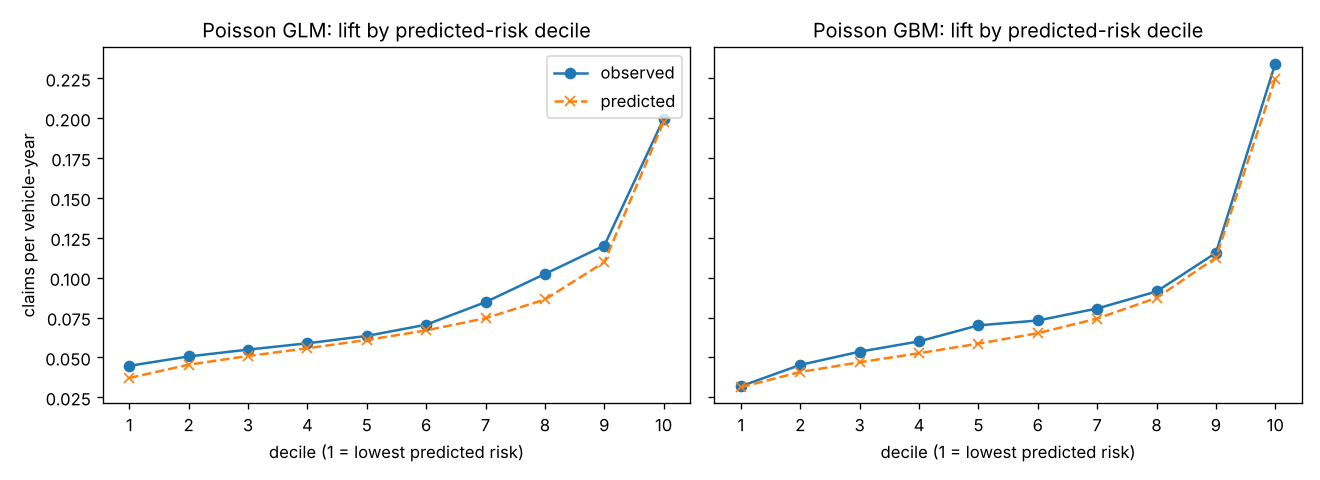
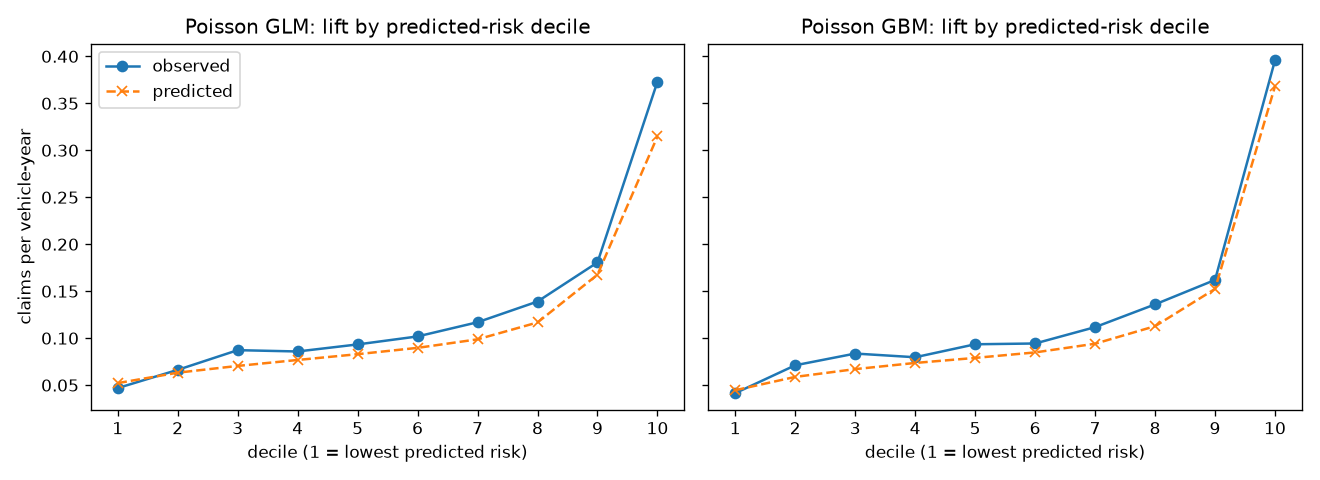
Fix data source to OpenML, update results, tidy pandas warning

Changed region(s): [[0.0, 0.0312, 0.9939, 0.9688]]

diff --git a/src/motorfreq/data.py b/src/motorfreq/data.py
@@ -18,24 +18,26 @@ def _read_file(path: Path) -> pd.DataFrame:
     return list(pyreadr.read_r(str(path)).values())[0]
 
 
-def load_raw(local_path: str | None = None) -> pd.DataFrame:
-    """Load freMTPL2freq.
+def load_raw(local_path: str | None = None, source: str = "openml") -> pd.DataFrame:
+    """Load freMTPL2freq from one explicit source, so every run uses the same data.
 
-    Order: a local file if given; otherwise OpenML; otherwise the CASdatasets copy on GitHub.
+    - "openml": the version used in the scikit-learn tutorial (678,013 policies).
+    - "casdatasets": the CASdatasets R package release (677,991 policies, different claim counts).
+    The two give different frequencies, so the source is fixed in the config, never mixed.
     """
     if local_path:
         return _read_file(Path(local_path)).reset_index(drop=True)
-    try:
+    if source == "openml":
         from sklearn.datasets import fetch_openml
 
-        df = fetch_openml(data_id=41214, as_frame=True, n_retries=1).frame
-    except Exception:
+        return fetch_openml(data_id=41214, as_frame=True).frame.reset_index(drop=True)
+    if source == "casdatasets":
         CACHE_DIR.mkdir(exist_ok=True)
         path = CACHE_DIR / "freMTPL2freq.rda"
         if not path.exists():
             urllib.request.urlretrieve(RDA_URL, path)
-        df = _read_file(path)
-    return df.reset_index(drop=True)
+        return _read_file(path).reset_index(drop=True)
+    raise ValueError(f"unknown data source: {source!r} (use 'openml' or 'casdatasets')")
 
 
 def prepare(df: pd.DataFrame, max_claims: int = 4, max_exposure: float = 1.0) -> pd.DataFrame:

diff --git a/src/motorfreq/feature_selection.py b/src/motorfreq/feature_selection.py
@@ -41,7 +41,7 @@ def stability(df: pd.DataFrame, feature: str, min_exposure: float = 1000) -> flo
     """Largest change in a value's relativity between the first and last period (as a ratio, >= 1)."""
     periods = sorted(df["Period"].unique())
     first, last = (one_way(df[df["Period"] == p], feature) for p in (periods[0], periods[-1]))
-    joined = first.join(last, lsuffix="_first", rsuffix="_last")
+    joined = first.merge(last, left_index=True, right_index=True, suffixes=("_first", "_last"))
     joined = joined[(joined["exposure_first"] >= min_exposure) & (joined["exposure_last"] >= min_exposure)]
     ratio = joined["relativity_last"] / joined["relativity_first"]
     return float(np.exp(np.abs(np.log(ratio)).max()))

diff --git a/src/motorfreq/pipeline.py b/src/motorfreq/pipeline.py
@@ -29,7 +29,7 @@ def _spec(cfg: dict, extra_categorical: list[str] | None = None) -> models.Featu
 
 def build_dataset(cfg: dict, raw: pd.DataFrame | None = None) -> pd.DataFrame:
     d, s = cfg["data"], cfg["simulation"]
-    df = data.prepare(raw if raw is not None else data.load_raw(d.get("local_path")),
+    df = data.prepare(raw if raw is not None else data.load_raw(d.get("local_path"), d.get("source", "openml")),
                       d["max_claims"], d["max_exposure"])
     validate.validate(df, _spec(cfg).columns + [cfg["features"]["area_grouping"]["column"]])
     df = features.add_periods(df, s["n_periods"], s["seed"])

diff --git a/reports/report.md b/reports/report.md
@@ -2,15 +2,15 @@
 
 _Public French motor data (freMTPL2). Periods and drift are simulated: illustrative only._
 
-- Policies: 677,991
-- Overall frequency: 0.0754 claims per vehicle-year
+- Policies: 678,013
+- Overall frequency: 0.1042 claims per vehicle-year
 
 ## Champion vs challenger (tested on a later period)
 
 | Model | Poisson deviance | O/E | Lift (top/bottom decile) |
 | --- | --- | --- | --- |
-| GLM | 0.4931 | 1.086 | 4.47x |
-| GBM | 0.4825 | 1.080 | 7.34x |
+| GLM | 0.6424 | 1.133 | 7.96x |
+| GBM | 0.6281 | 1.122 | 9.55x |
 
 ![Lift chart](lift_chart.png)
 
@@ -18,45 +18,45 @@ _Public French motor data (freMTPL2). Periods and drift are simulated: illustrat
 
 Segment VehBrand=B12 has a simulated risk increase in the latest period.
 
-- Time-based split: segment O/E = **1.54** (the shift is visible)
-- Random split: segment O/E = **0.95** (the shift is hidden)
+- Time-based split: segment O/E = **1.56** (the shift is visible)
+- Random split: segment O/E = **1.05** (the shift is hidden)
 
 ## Location grouping
 
 | Location feature | Poisson deviance | Lift |
 | --- | --- | --- |
-| grouped regions (5 bands) | 0.49308 | 4.47x |
-| raw Region (22 levels) | 0.49287 | 4.23x |
-| without region (Area and Density only) | 0.49313 | 4.47x |
+| grouped regions (5 bands) | 0.64237 | 7.96x |
+| raw Region (22 levels) | 0.64205 | 7.91x |
+| without region (Area and Density only) | 0.64234 | 7.79x |
 
 ## Feature selection
 
 | feature    |   deviance_increase_when_dropped |   one_way_spread |   stability_ratio | recommendation             |
 |:-----------|---------------------------------:|-----------------:|------------------:|:---------------------------|
-| BonusMalus |                           0.0123 |           3.4053 |            1.0494 | keep                       |
-| DrivAge    |                           0.0014 |           1.9569 |            1.0744 | keep                       |
-| VehAge     |                           0.0008 |           1.495  |            1.2661 | keep                       |
-| VehPower   |                           0.0003 |           1.1615 |            1.1557 | keep                       |
-| VehGas     |                           0.0003 |           1.1344 |            1.0098 | keep                       |
-| Area       |                           0.0001 |           1.7863 |            1.0442 | keep                       |
-| AreaGroup  |                           0.0001 |           1.4144 |            1.2128 | keep                       |
-| Density    |                          -0.0001 |           1.9132 |            1.0683 | candidate to drop or merge |
-| VehBrand   |                          -0.0015 |           1.672  |            1.4171 | review: unstable over time |
+| VehAge     |                           0.0115 |           2.6784 |            1.1878 | keep                       |
+| BonusMalus |                           0.0103 |           2.6542 |            1.0806 | keep                       |
+| DrivAge    |                           0.0019 |           1.5971 |            1.0753 | keep                       |
+| VehBrand   |                           0.0018 |           2.1383 |            1.4381 | review: unstable over time |
+| VehPower   |                           0.0009 |           1.3075 |            1.1448 | keep                       |
+| VehGas     |                           0.0001 |           1.0635 |            1.0037 | keep                       |
+| Area       |                          -0      |           1.7665 |            1.1112 | candidate to drop or merge |
+| Density    |                          -0      |           1.6883 |            1.0675 | candidate to drop or merge |
+| AreaGroup  |                          -0      |           1.4001 |            1.0965 | candidate to drop or merge |
 
 ## Monitoring (segment O/E, latest period)
 
 | VehBrand   |   exposure |   observed |   expected |    oe | alert   |
 |:-----------|-----------:|-----------:|-----------:|------:|:--------|
-| B12        |   16216.2  |       1630 |   1058.23  | 1.54  | True    |
-| B5         |    4950.7  |        447 |    396.848 | 1.126 | False   |
-| B13        |    1671.92 |        144 |    129.412 | 1.113 | False   |
-| B3         |    7104.33 |        637 |    591.152 | 1.078 | False   |
-| B4         |    3508.44 |        286 |    277.605 | 1.03  | False   |
-| B11        |    1742.96 |        169 |    164.541 | 1.027 | False   |
-| B10        |    2374.08 |        194 |    190.898 | 1.016 | False   |
-| B2         |   23637.6  |       1671 |   1712.12  | 0.976 | False   |
-| B1         |   23665.3  |       1653 |   1715.04  | 0.964 | False   |
-| B6         |    3978.99 |        292 |    325.985 | 0.896 | False   |
+| B12        |   16157.7  |       3472 |   2218.59  | 1.565 | True    |
+| B3         |    7024.1  |        743 |    676.841 | 1.098 | False   |
+| B11        |    1686.58 |        180 |    171.768 | 1.048 | False   |
+| B2         |   23736.2  |       2176 |   2122.45  | 1.025 | False   |
+| B5         |    4996.93 |        506 |    501.154 | 1.01  | False   |
+| B4         |    3532.3  |        332 |    336.613 | 0.986 | False   |
+| B10        |    2391.74 |        210 |    215.876 | 0.973 | False   |
+| B1         |   23707    |       2061 |   2182.38  | 0.944 | False   |
+| B6         |    3914.17 |        341 |    375.84  | 0.907 | False   |
+| B13        |    1659.75 |        139 |    163.455 | 0.85  | False   |
 
 Alerts: B12
 

diff --git a/README.md b/README.md
@@ -1,4 +1,4 @@
-![tests](https://github.com/<your-username>/motor-frequency-toolkit/actions/workflows/ci.yml/badge.svg)
+![tests](https://github.com/joffie89/motor-frequency-toolkit/actions/workflows/ci.yml/badge.svg)
 
 # motor-frequency-toolkit
 
@@ -6,7 +6,7 @@ A reusable Python toolkit for **motor claim-frequency modelling**: from raw poli
 model comparison, a feature-selection report and segment-level monitoring, with a human
 approval gate before any model is promoted.
 
-> **Data and scope.** Uses the public French motor dataset *freMTPL2freq* (677,991 policies).
+> **Data and scope.** Uses the public French motor dataset *freMTPL2freq* from OpenML (678,013 policies).
 > It covers all claim types and has no dates, so **time periods and the emerging-risk shift are
 > simulated and illustrative**. The aim is to show the approach and the engineering, not real results.
 
@@ -44,15 +44,17 @@ All settings are in `configs/default.yaml`.
 
 ## Results (illustrative)
 
+From `python -m motorfreq run` with the default config (OpenML data; overall frequency 0.104 claims per vehicle-year).
+
 **Champion vs challenger**, trained on periods 1–3, tested on period 4:
 
 | Model | Poisson deviance | O/E | Lift (top ÷ bottom decile) |
 | --- | --- | --- | --- |
-| Poisson GLM | 0.4931 | 1.086 | 4.47× |
-| Poisson GBM | 0.4825 | 1.080 | 7.34× |
+| Poisson GLM | 0.6424 | 1.133 | 7.96× |
+| Poisson GBM | 0.6281 | 1.122 | 9.55× |
 
-The GBM separates risk much more sharply. O/E is above 1 for both because the test period contains
-the simulated risk increase, which no model trained on earlier data can know about.
+The GBM fits better and separates risk more sharply. O/E is above 1 for both because the test period
+contains the simulated risk increase, which no model trained on earlier data can know about.
 
 ![Lift chart](reports/lift_chart.png)
 
@@ -61,20 +63,22 @@ frequency rise in the latest period, standing in for something like a new theft 
 
 | Validation | Segment O/E |
 | --- | --- |
-| Train on earlier periods, test on the latest | **1.54**: the shift is visible |
-| Random 75/25 split | **0.95**: the shift is hidden |
+| Train on earlier periods, test on the latest | **1.56**: the shift is visible |
+| Random 75/25 split | **1.05**: the shift is hidden |
 
 A random split mixes old and new data, so it can make a stale model look fine.
 
 **Location grouping.** Credibility-weighted grouping of 22 regions into 5 bands matches the fit of the
-raw regions (deviance 0.4931 vs 0.4929) with far fewer parameters, and gives better lift (4.47× vs 4.23×).
+raw regions (deviance 0.6424 vs 0.6421) with slightly better lift (7.96× vs 7.91×), and improves lift
+over leaving region out (7.79×).
 
 **Feature selection** (`reports/feature_selection.csv`) combines three views per feature:
 how much validation deviance worsens without it, how strongly frequency varies across its values,
-and how stable its effect is over time. It correctly flags **VehBrand as unstable**, which is the
-feature affected by the simulated shift, and **Density** as adding little once Area and the region groups are in the model (a candidate to drop or merge).
+and how stable its effect is over time. It flags **VehBrand as unstable** (the feature affected by the
+simulated shift) even though it still helps the model, and shows that **Area, Density and the region
+groups** each add little on their own because they carry overlapping location information.
 
-**Monitoring** (`reports/monitoring.csv`) raises an alert for B12 (O/E 1.54 against a 1.2 threshold).
+**Monitoring** (`reports/monitoring.csv`) raises an alert for B12 (O/E 1.56 against a 1.2 threshold).
 
 ## Approval gate
 
